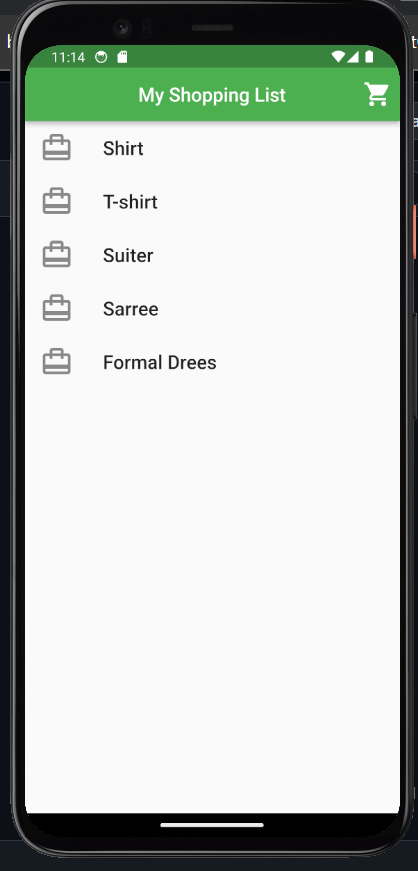
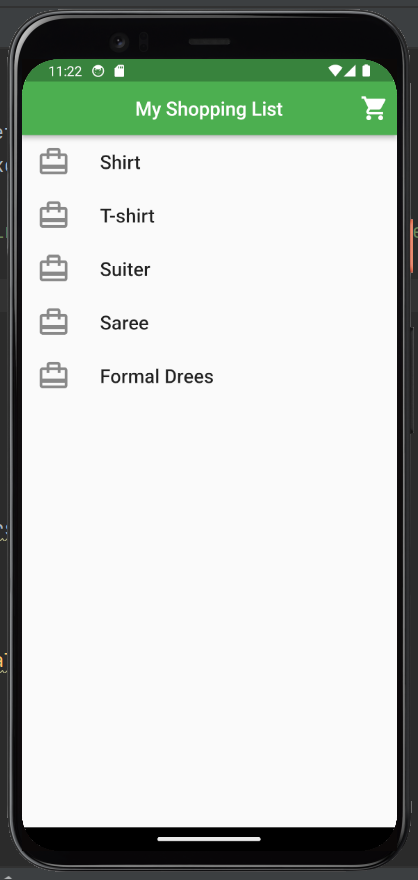
mod 6 live test code added

Changed region(s): [[0.0, 0.0, 1.0, 1.0], [0.2177, 0.403, 0.5287, 0.434], [0.2488, 0.341, 0.3732, 0.372]]

diff --git a/lib/home_screen.dart b/lib/home_screen.dart
@@ -3,7 +3,7 @@ import 'package:flutter/material.dart';
 class HomeScreen extends StatelessWidget {
   HomeScreen({Key? key}) : super(key: key);
 
-  List<String> items = ['Shirt', 'T-shirt', 'Suiter', 'Sarree', 'Formal Drees'];
+  List<String> items = ['Shirt', 'T-shirt', 'Suiter', 'Saree', 'Formal Drees'];
   @override
   Widget build(BuildContext context) {
     return Scaffold(
